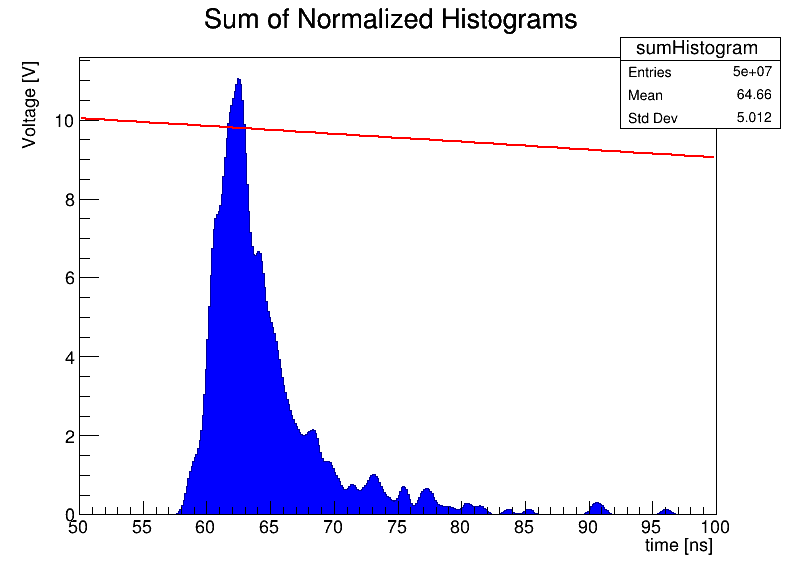
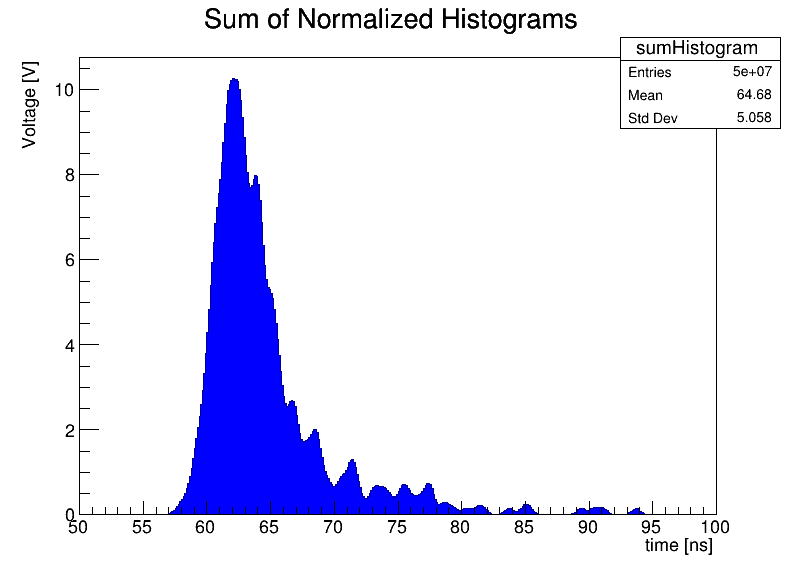
new commit

diff --git a/time_distribution.C b/time_distribution.C
@@ -73,18 +73,7 @@ int main() {
     TCanvas *canvasHist = new TCanvas("canvasHist", "canvasHist", 800, 600);
     sumHistogram->Draw("hist");
 
-    // Trova il bin corrispondente al massimo dell'istogramma
-    int binMax = sumHistogram->GetMaximumBin();
-    double xMax = sumHistogram->GetXaxis()->GetBinCenter(binMax);
-    double yMax = sumHistogram->GetBinContent(binMax);
-
-    // Disegna una linea passante per il massimo dell'istogramma
-    TF1 *line = new TF1("line", "pol1", 50, 100); // Interpolazione lineare
-    line->SetParameters(yMax, -0.02); // Valori iniziali per la pendenza e l'intercetta
-    line->SetLineColor(kRed);
-    line->Draw("same");
-
-    // Salva l'istogramma su un file
+     // Salva l'istogramma su un file
     sumHistogram->SaveAs("time_distribution_all_hist.root");
 
     // Salva il canvas dell'istogramma su un file
@@ -92,19 +81,7 @@ int main() {
     canvasHist->Print("time_distribution_all.pdf");
     canvasHist->Draw();
 
-    // Creazione del canvas per il plot
-    // TCanvas *canvasPlot = new TCanvas("canvasPlot", "canvasPlot", 800, 600);
-
-    // Disegna il plot sul nuovo canvas
-    // Aggiungi qui il codice per disegnare il plot
-    // Ad esempio:
-    /* TF1 *plot = new TF1("plot", "x", 50, 100);
-     plot->Draw();
-
-    // Salva il canvas del plot su un file
-    canvasPlot->SaveAs("time_distribution_plot.png");
-    canvasPlot->Print("time_distribution_plot.pdf");
-    canvasPlot->Draw();*/
+    
 
     return 0;
 }
